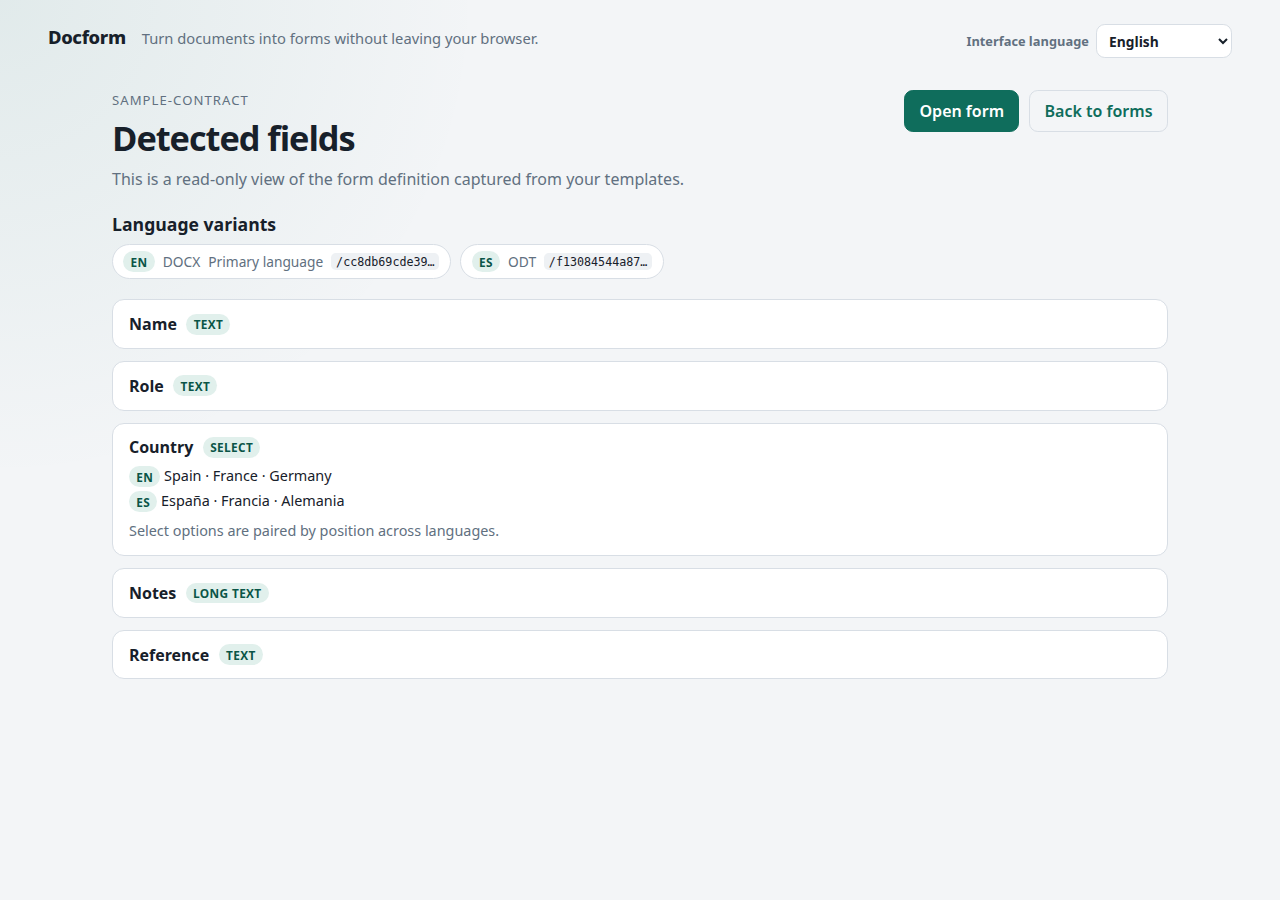
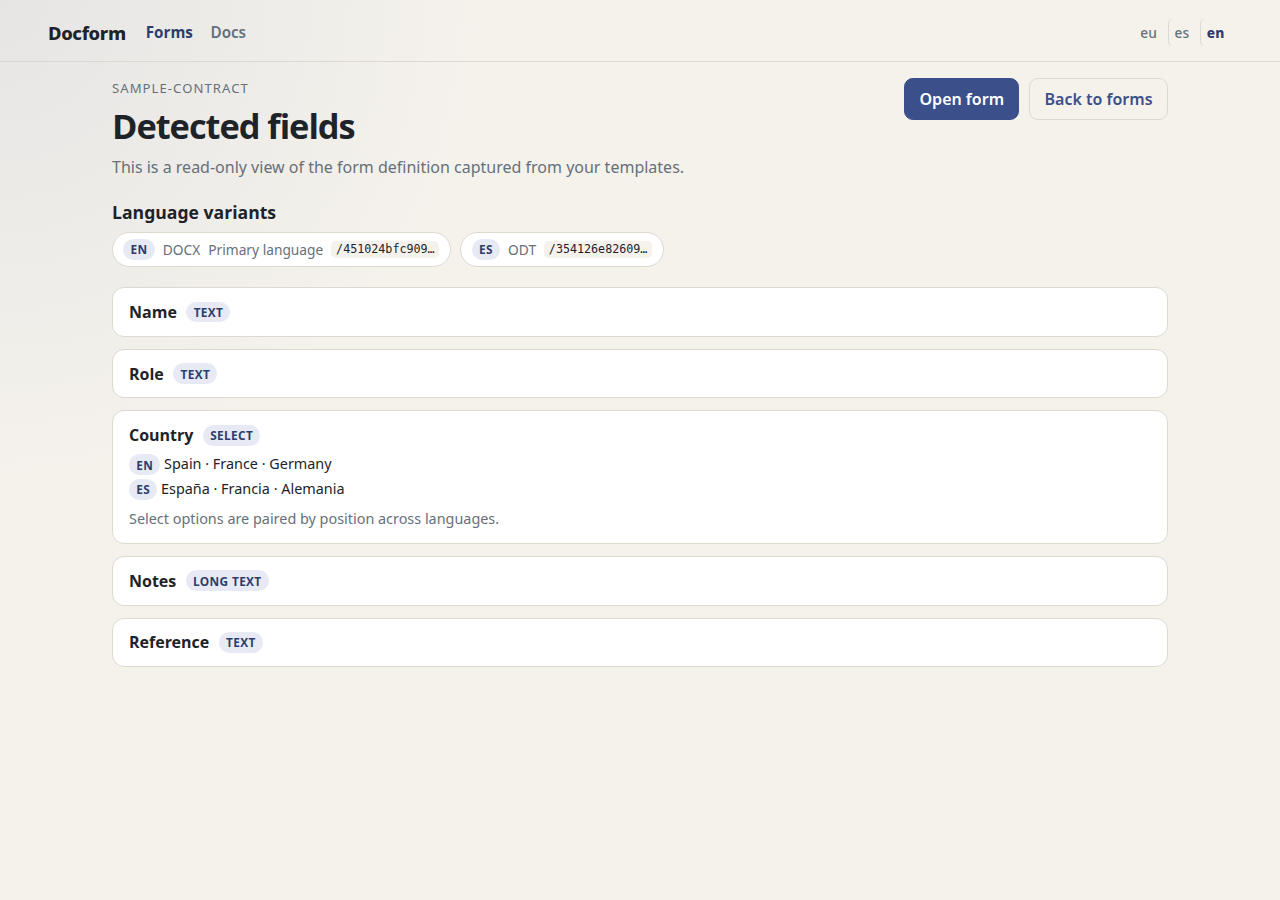
docs: refresh guides and screenshots for redesign

diff --git a/.scratch/site-redesign/issues/04-refresh-docs-and-screenshots.md b/.scratch/site-redesign/issues/04-refresh-docs-and-screenshots.md
@@ -4,11 +4,11 @@
 
 **Blocked by:** 02 — Minimal header with Forms/Docs menu and language buttons; 03 — Compact form rows with rename behind a pen icon
 
-**Status:** ready-for-agent
+**Status:** done
 
-- [ ] The README describes the interface switcher as `eu | es | en` with the selected code in bold, notes the endonyms as accessible names, points to the Docs menu rather than a separate header link, and no longer claims a visible language count.
-- [ ] The English, Spanish, and Basque guides describe the same switcher and menu in their own language, and still explain that interface language is independent of document language.
-- [ ] The English and Basque library screenshots, plus the detected-fields, form, DOCX preview, and ODT preview screenshots, are regenerated from the redesigned UI.
-- [ ] Every refreshed screenshot shows the indigo and warm-neutral palette and the new header; none shows the green header, tagline, or language dropdown.
-- [ ] Documentation image references still resolve, and the in-app Docs page still renders all three guides after the text changes.
-- [ ] No application behavior changes are introduced by this ticket.
+- [x] The README describes the interface switcher as `eu | es | en` with the selected code in bold, notes the endonyms as accessible names, points to the Docs menu rather than a separate header link, and no longer claims a visible language count.
+- [x] The English, Spanish, and Basque guides describe the same switcher and menu in their own language, and still explain that interface language is independent of document language.
+- [x] The English and Basque library screenshots, plus the detected-fields, form, DOCX preview, and ODT preview screenshots, are regenerated from the redesigned UI.
+- [x] Every refreshed screenshot shows the indigo and warm-neutral palette and the new header; none shows the green header, tagline, or language dropdown.
+- [x] Documentation image references still resolve, and the in-app Docs page still renders all three guides after the text changes.
+- [x] No application behavior changes are introduced by this ticket.

diff --git a/README.md b/README.md
@@ -47,13 +47,13 @@ The app cannot detect two option lists that happen to have the same length but d
 
 ## Interface languages
 
-The header has an **Interface language** switcher with Euskara, Español, and English. The choice is detected from the browser on first use, remembered in browser-local storage, and used for the chrome, validation, errors, dates, counts, and accessibility labels.
+The header has an **Interface language** switcher shown as `eu | es | en`, with the selected code in bold. Their accessible names are Euskara, Español, and English. The choice is detected from the browser on first use, remembered in browser-local storage, and used for the chrome, validation, errors, dates, and accessibility labels.
 
 The interface locale is independent of document languages. Switching it never changes the primary variant, template labels or options, document-language tabs, form data, or generated documents. Template content is not translated. The app updates `<html lang>` for the interface and marks template-derived text with its document language where known.
 
 Errors are reported as stable codes with structured details and localized from typed catalogs. The English diagnostic message is for development only and is never shown. Preview failures show a localized message; the raw renderer reason sits in a collapsed “Technical details” disclosure.
 
-The in-app guide is available at `/docs` from the header and follows the interface language. Its Markdown sources are in `docs/guides/` for English, Spanish, and Basque.
+The in-app guide is available at `/docs` from the **Docs** menu and follows the interface language. Its Markdown sources are in `docs/guides/` for English, Spanish, and Basque.
 
 ![The generated form](docs/screenshots/form.png)
 

diff --git a/docs/guides/es.md b/docs/guides/es.md
@@ -60,10 +60,12 @@ La vista previa es aproximada. Sirve para comprobar la disposición, pero el doc
 
 Hay dos elecciones de idioma diferentes:
 
-- El **Idioma de la interfaz** de la cabecera cambia los botones, los mensajes, las fechas y esta guía. Las opciones actuales son Euskara, Español e English.
+- El **Idioma de la interfaz** de la cabecera cambia los botones, los mensajes, las fechas y esta guía. Se muestra como `eu | es | en`, con el código seleccionado en negrita; los lectores de pantalla anuncian las opciones como Euskara, Español e English.
 - El **Idioma del documento** pertenece a una plantilla. Controla las etiquetas, las opciones y el documento relleno de esa variante de idioma.
 
 Cambiar el idioma de la interfaz no cambia los idiomas de los documentos del formulario ni los documentos que descargas.
+
+El menú de la cabecera tiene **Formularios**, que vuelve a la biblioteca de formularios, y **Guía**, que abre esta guía.
 
 ## 5. Copia de seguridad o mover un formulario
 

diff --git a/docs/guides/eu.md b/docs/guides/eu.md
@@ -60,10 +60,12 @@ Aurrebista gutxi gorabeherakoa da. Diseinua egiaztatzeko balio du, baina deskarg
 
 Bi hizkuntza-hautaketa desberdin daude:
 
-- Goiburuko **Interfazaren hizkuntzak** botoiak, mezuak, datak eta gida hau aldatzen ditu. Oraingo aukerak Euskara, Español eta English dira.
+- Goiburuko **Interfazaren hizkuntzak** botoiak, mezuak, datak eta gida hau aldatzen ditu. `eu | es | en` gisa erakusten da, hautatutako kodea lodiz; pantaila-irakurleek Euskara, Español eta English iragartzen dituzte.
 - **Dokumentuaren hizkuntza** txantiloi batekoa da. Hizkuntza-aldaera horren etiketak, aukerak eta dokumentu betea kontrolatzen ditu.
 
 Interfazaren hizkuntza aldatzeak ez ditu formularioaren dokumentu-hizkuntzak edo deskargatzen dituzun dokumentuak aldatzen.
+
+Goiburuko menuak **Formularioak** dauka, formulario-liburutegira itzultzeko, eta **Gida**, gida hau irekitzeko.
 
 ## 5. Formularioa babeskopiatu edo mugitu
 

diff --git a/docs/guides/en.md b/docs/guides/en.md
@@ -60,10 +60,12 @@ The preview is approximate. It is useful for checking the layout, but the downlo
 
 There are two different language choices:
 
-- **Interface language** in the header changes the buttons, messages, dates, and this guide. The current choices are Euskara, Español, and English.
+- **Interface language** in the header changes the buttons, messages, dates, and this guide. It is shown as `eu | es | en`, with the selected code in bold; screen readers announce the choices as Euskara, Español, and English.
 - **Document language** belongs to a template. It controls the labels, options, and filled document for that language variant.
 
 Changing the interface language does not change the form's document languages or the documents you download.
+
+The header menu has **Forms**, which returns to the form library, and **Docs**, which opens this guide.
 
 ## 5. Back up or move a form
 
